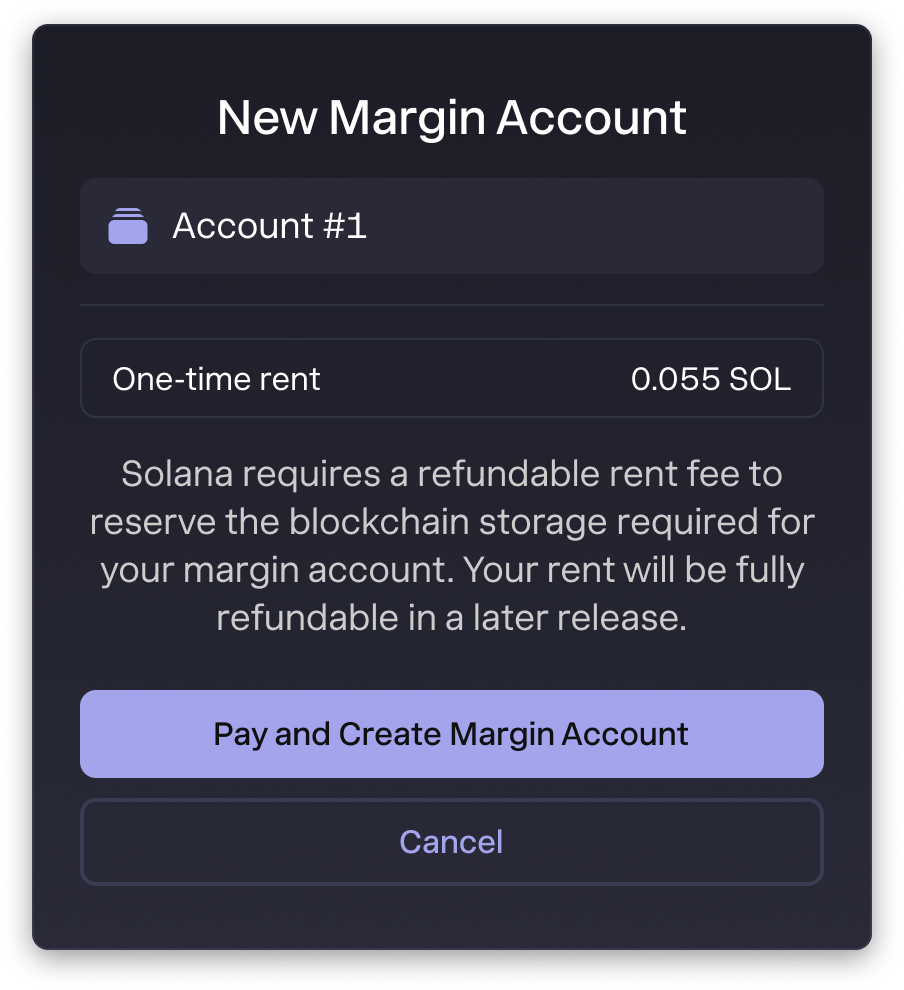
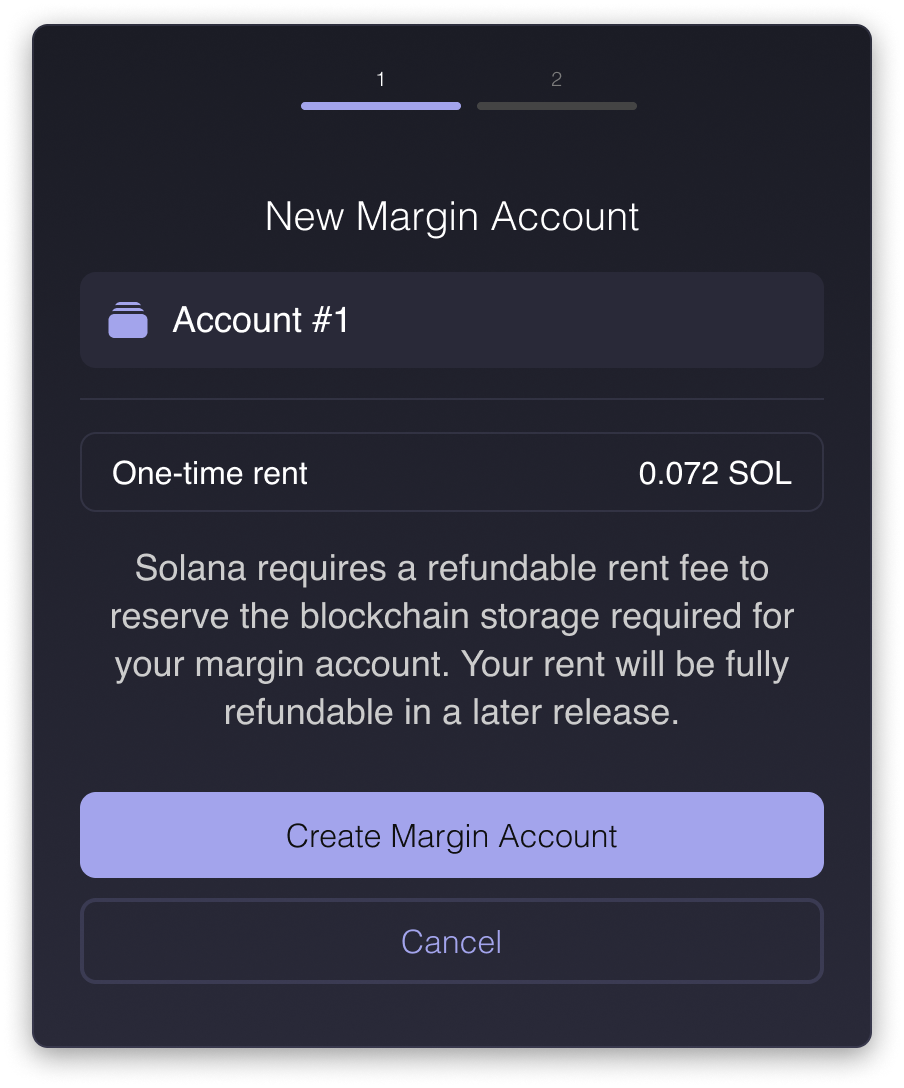
Lookup Table

diff --git a/src/03-margin-accounts/how-to-create-a-margin-account.md b/src/03-margin-accounts/how-to-create-a-margin-account.md
@@ -17,7 +17,7 @@ Glow even supports creating multiple margin accounts under a single wallet, thus
 ## Prerequisites
 
 1. **Wallet Connection**: Ensure your wallet (Phantom, Backpack, Solflare, WalletConnect, or Coinbase Wallet) is connected to the Glow platform. Glow supports multiple wallets for seamless integration.
-2. **SOL Balance Requirement**: You must have at least **0.055 SOL** in your wallet to cover a one-time refundable rent fee for account creation. This fee is used for Solana blockchain storage. In a later release, we will allow users to close their margin accounts and receive a full refund of this rent fee. Please note that this amount does not cover the additional SOL required to process transactions on the blockchain. Transaction fees are typically minimal, averaging less than 0.001 SOL per transaction. Each additional margin account requires payment an additional rent fee. In a future release, users will have the option to close a margin account and receive the full rent fee refunded back to their wallets.
+2. **SOL Balance Requirement**: You must have at least **0.072 SOL** in your wallet to cover a one-time refundable rent fee for account creation. This fee is used for Solana blockchain storage. In a later release, we will allow users to close their margin accounts and receive a full refund of this rent fee. Please note that this amount does not cover the additional SOL required to process transactions on the blockchain. Transaction fees are typically minimal, averaging less than 0.001 SOL per transaction. Each additional margin account requires payment an additional rent fee. In a future release, users will have the option to close a margin account and receive the full rent fee refunded back to their wallets.
 
 ## Key Visual Indicators
 
@@ -47,8 +47,6 @@ Glow even supports creating multiple margin accounts under a single wallet, thus
   style={{ maxWidth: "500px", width: "100%", height: "auto", display: "block", margin: "0 auto" }}
 />
 
-
-
 ## Step 2: Access Margin Account Creation
 
 Once your wallet is connected:
@@ -62,32 +60,41 @@ Once your wallet is connected:
 
 In the **New Margin Account** modal:
 
-- You’ll see a **one-time rent** of **0.055 SOL** displayed.
+- You’ll see a **one-time rent** of **0.072 SOL** displayed.
 - The modal explains that this rent fee is required by Solana and will be fully refundable upon account closure.
-- Click **Pay and Create Margin Account** to proceed.
+- Click **Create Margin Account** to proceed.
 
 <img
   src="/img/create-5.png"
   style={{ maxWidth: "600px", width: "100%", height: "auto", display: "block", margin: "0 auto" }}
 />
 
+- After paying the rent fee, you’ll be prompted to complete one more step: **setting up a lookup table** for your margin account. This is required for transacting efficiently on Glow and helps reduce transaction size on Solana. You’ll need to approve a second transaction to complete this step.
+
 
 ## Step 4: Handle Insufficient SOL Balance (If Applicable)
 
-If you don’t have enough SOL in your wallet:
-
-- The button will be disabled, and an error message will prompt you to add more SOL to your wallet.
-- The button will be disabled, and an error message will prompt you to add more SOL to your wallet.
+If you don’t have enough SOL in your wallet, the button will be disabled, and an error message will prompt you to add more SOL to your wallet.
 
 <img
   src="/img/create-6.png"
   style={{ maxWidth: "600px", width: "100%", height: "auto", display: "block", margin: "0 auto" }}
 />
 
+## Step 5: Set Up the Lookup Table
 
-## Step 5: Confirmation
+Once the rent payment is successful, Glow will prompt you to create a **lookup table** as a second transaction. This ensures your margin account can efficiently interact with the Glow Protocol.
 
-After successfully paying the rent fee:
+- The "Create Lookup Table" button will appear
+
+![](/img/create-10.png)
+
+- Confirm the transaction in your wallet to proceed
+- If your balance is too low, the button will remain disabled until you top up your wallet
+
+## Step 6: Confirmation
+
+After successfully paying the rent fee and creating the lockup table:
 
 - A **Margin Account Created Successfully** banner will appear. The banner shown below allows you to seamlessly switch between margin accounts within the application. If you choose to create additional margin accounts in the future, you can easily select and activate your newly created margin account directly from this banner.
 

diff --git a/src/03-margin-accounts/health-level.md b/src/03-margin-accounts/health-level.md
@@ -61,7 +61,7 @@ The Health Level provides a benchmark for users to monitor their account risk, a
 - Additionally, the **Portfolio Dashboard** offers a consolidated view of all your margin accounts, enabling you to monitor the Health Levels of multiple accounts in one place. This is particularly useful if you manage several accounts simultaneously, as it provides an at-a-glance overview of their status.
 - Use Glow’s visual indicators—green (safe), blue (signaling a moderate risk but leveraged state), and red (critical)—to understand your risk levels.
 
-![](/img/h-4.png)
+![](/img/portfolio-3.png)
 
 ### 2. Deposit Additional Collateral
 

diff --git a/src/03-margin-accounts/portfolio-management.md b/src/03-margin-accounts/portfolio-management.md
@@ -92,7 +92,7 @@ This enhanced functionality makes managing multiple accounts more efficient and 
 
 The Portfolio page is tailored for advanced users, enabling them to efficiently perform a series of actions across multiple margin accounts without needing to switch back and forth between the main interface. This streamlined workflow significantly enhances the user experience, especially for those managing complex portfolios or executing multiple strategies.
 
-![](/img/portfolio-4.png)
+![](/img/portfolio-3.png)
 
 **View Positions**: Clicking this button opens a detailed view of all the positions within the selected margin account.
 
